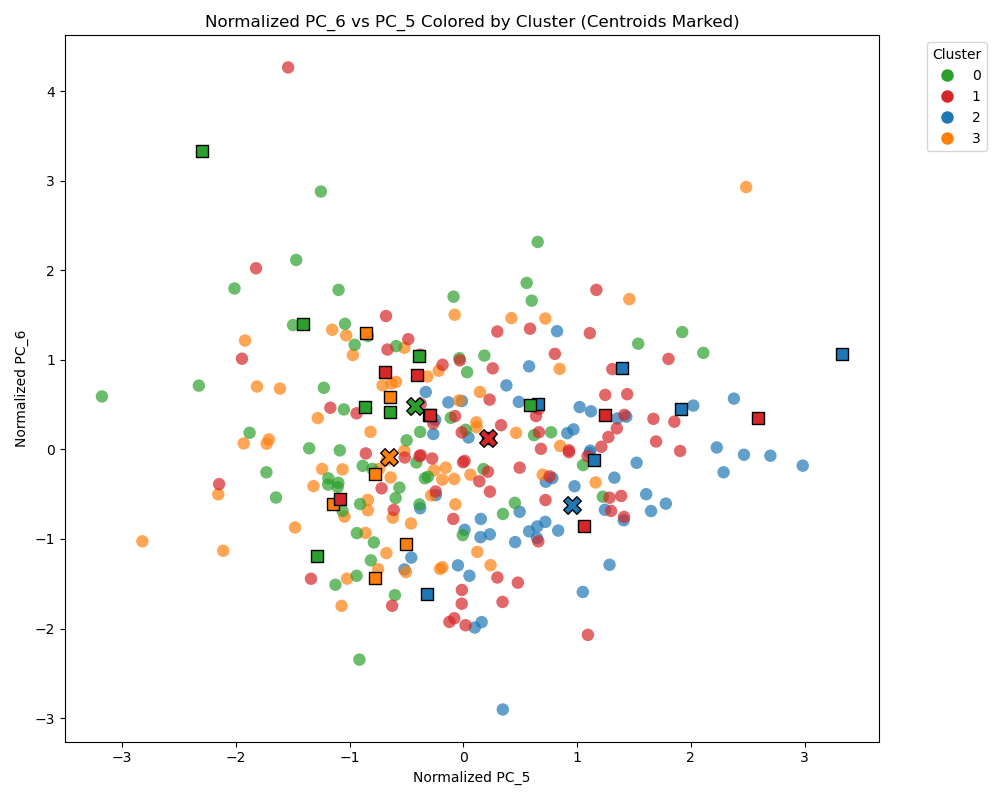
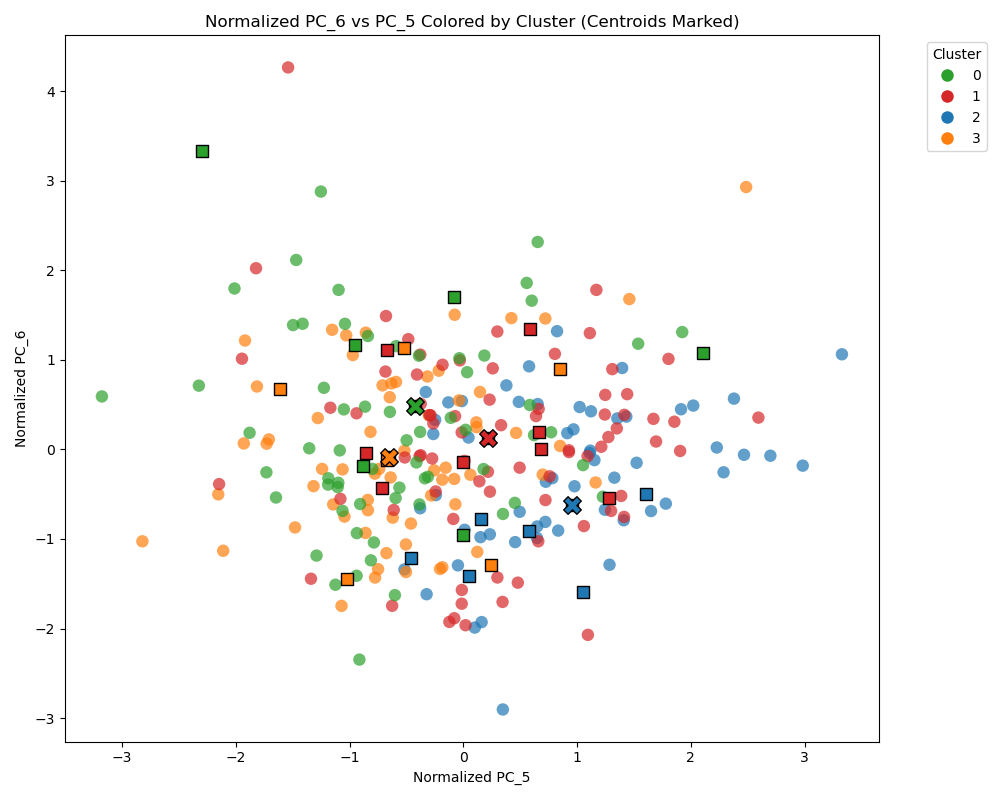
A3_CYFeatures_SelectByClustering_PCA.py now saves the right dataframe, and it now selects the centroid in each group. New plots were generated.

diff --git a/code/kmeans/A3_CYFeatures_SelectByClustering_PCA.py b/code/kmeans/A3_CYFeatures_SelectByClustering_PCA.py
@@ -10,11 +10,12 @@ from sklearn.decomposition import PCA
 from PointDistributor import point_distributor
 
 
-# Settings.
+# Settings
 method = 'kmedoids'   # Should be chosen from ['kmeans', 'kmedoids'].
 num_clusters = 4   # Number of clusters to create.
 num_rows = 30   # Number of representative rows to select.
 input_file = Path("../../data/features_output_selection_Years.csv")
+output_file = Path("../../data/kmeans_result/cyfeatures_{}clusters_PCA_new.csv".format(num_clusters))
 N_pca_components = 6 # Number of PCA components to use
 
 # Load data
@@ -113,15 +114,22 @@ def select_points_based_on_cluster_size(in_df, in_num_rows, in_useseed=False, in
     cluster_weights = list(np.array(cluster_sizes)/total_cluster_size)
     points_per_cluster = point_distributor(cluster_weights, in_num_rows)
     
+    # Select the centroid and, if needed, random other cluster points
     for i, (cluster, group) in enumerate(cur_df.groupby('cluster')):
         if points_per_cluster[i] > 0:
-            selected_sample = group.sample(n=points_per_cluster[i])
-            cur_df.loc[selected_sample.index, 'selected'] = True
+            cur_centroid_row = group[group['is_centroid'] == True].iloc[0]
+            cur_df.loc[cur_centroid_row.name, 'selected'] = True
+            remaining_points = points_per_cluster[i] - 1
+            if remaining_points > 0:
+                remaining_group = group[group['is_centroid'] == False]
+                selected_sample = remaining_group.sample(n=remaining_points)
+                cur_df.loc[selected_sample.index, 'selected'] = True
 
     return cur_df
 
 df_N_selected = select_points_based_on_cluster_size(df_N, num_rows)
 
-df_N.drop(columns=['distance_to_centroid'], inplace=True)
-output_file = Path("../../data/kmeans_result/cyfeatures_{}clusters_PCA.csv".format(num_clusters))
-df_N.to_csv(output_file, index=False)
+df_N_selected.drop(columns=['distance_to_centroid'], inplace=True)
+
+print(f"Saving to: {output_file}")
+df_N_selected.to_csv(output_file, index=False)
